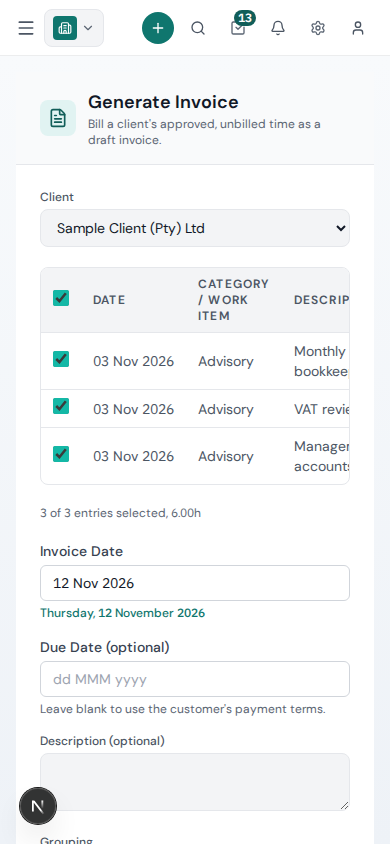
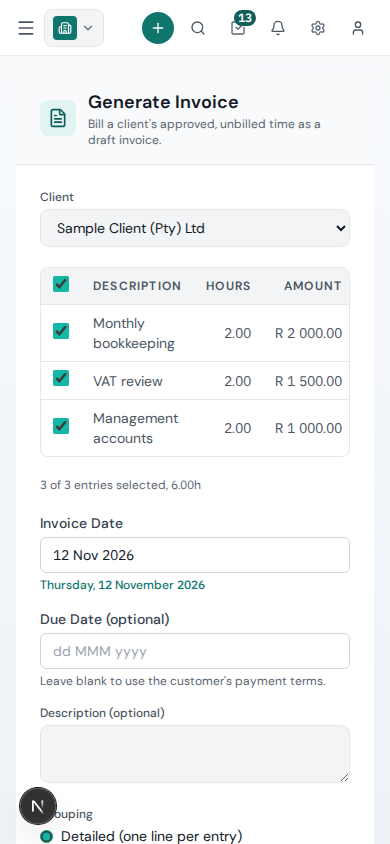
fix(practice): Generate Invoice review fixes
Ignore stale WIP responses after a client switch, keep Hours and Amount
visible on phones, scope the practice_clients joins by company_id, and add
screenshots of the totals and action button.

Changed region(s): [[0.0923, 0.3081, 0.8308, 0.8934], [0.7077, 0.3081, 0.8923, 0.5853], [0.0923, 0.955, 0.6462, 1.0]]

diff --git a/src/components/accounting/practice/WipEntryPickTable.tsx b/src/components/accounting/practice/WipEntryPickTable.tsx
@@ -36,11 +36,11 @@ export function WipEntryPickTable({ entries, selected, onToggle, onToggleAll }: 
         <thead className="bg-[var(--ff-bg-tertiary)]">
           <tr>
             <th className={`${TH} w-10`}><SelectAllBox state={state} onChange={onToggleAll} /></th>
-            <th className={TH}>Date</th>
-            <th className={TH}>Category / Work item</th>
+            <th className={`${TH} hidden sm:table-cell`}>Date</th>
+            <th className={`${TH} hidden sm:table-cell`}>Category / Work item</th>
             <th className={TH}>Description</th>
             <th className={`${TH} text-right`}>Hours</th>
-            <th className={`${TH} text-right`}>Rate</th>
+            <th className={`${TH} hidden text-right sm:table-cell`}>Rate</th>
             <th className={`${TH} text-right`}>Amount</th>
           </tr>
         </thead>
@@ -51,11 +51,11 @@ export function WipEntryPickTable({ entries, selected, onToggle, onToggleAll }: 
                 <input type="checkbox" aria-label={`Select entry ${e.taskDescription}`} checked={selected.has(e.id)}
                   onChange={() => onToggle(e.id)} className="h-4 w-4 rounded accent-teal-500 cursor-pointer" />
               </td>
-              <td className={`${TD} whitespace-nowrap`}>{e.entryDate ? formatDisplayDate(e.entryDate) : ''}</td>
-              <td className={TD}>{[e.jobCategoryName, e.workItemName].filter(Boolean).join(' / ')}</td>
+              <td className={`${TD} hidden whitespace-nowrap sm:table-cell`}>{e.entryDate ? formatDisplayDate(e.entryDate) : ''}</td>
+              <td className={`${TD} hidden sm:table-cell`}>{[e.jobCategoryName, e.workItemName].filter(Boolean).join(' / ')}</td>
               <td className={`${TD} text-[var(--ff-text-primary)]`}>{e.taskDescription}</td>
               <td className={`${TD} text-right tabular-nums`}>{Number(e.hours).toFixed(2)}</td>
-              <td className={`${TD} text-right tabular-nums`}>{e.appliedRate != null ? formatMoney(e.appliedRate) : ''}</td>
+              <td className={`${TD} hidden text-right tabular-nums sm:table-cell`}>{e.appliedRate != null ? formatMoney(e.appliedRate) : ''}</td>
               <td className={`${TD} text-right tabular-nums text-[var(--ff-text-primary)]`}>{formatMoney(e.lineTotal ?? 0)}</td>
             </tr>
           ))}

diff --git a/src/components/accounting/practice/GenerateInvoiceForm.tsx b/src/components/accounting/practice/GenerateInvoiceForm.tsx
@@ -5,7 +5,7 @@
  * entries billed). The preview prices with the shared invoiceTotals, the
  * figure the server stores.
  */
-import { useCallback, useEffect, useState } from 'react';
+import { useCallback, useEffect, useRef, useState } from 'react';
 import Link from 'next/link';
 import { AlertCircle, CheckCircle2, Loader2 } from 'lucide-react';
 import { apiFetch, assertOk, apiErrorMessage } from '@/lib/apiFetch';
@@ -79,19 +79,23 @@ export function GenerateInvoiceForm() {
     })();
   }, []);
 
+  const wipRequest = useRef(0);
   const loadWip = useCallback(async (id: string) => {
+    const mine = ++wipRequest.current;
     setWip(null); setSelected(new Set()); setWipError(null);
-    if (!id) return;
+    if (!id) { setWipLoading(false); return; }
     setWipLoading(true);
     try {
       const res = await apiFetch(`/api/accounting/practice/wip?practiceClientId=${encodeURIComponent(id)}`);
       await assertOk(res, 'Could not load the unbilled time - try again');
       const json = (await res.json()) as { data?: WipClientRow[] };
+      if (mine !== wipRequest.current) return; // a newer client pick superseded this response
       const row = json.data?.[0] ?? null;
       setWip(row);
       setSelected(new Set(row?.entries.map((e) => e.id) ?? []));
-    } catch (err) { setWipError(apiErrorMessage(err, 'Could not load the unbilled time - try again')); }
-    finally { setWipLoading(false); }
+    } catch (err) {
+      if (mine === wipRequest.current) setWipError(apiErrorMessage(err, 'Could not load the unbilled time - try again'));
+    } finally { if (mine === wipRequest.current) setWipLoading(false); }
   }, []);
 
   function pickClient(id: string) {

diff --git a/tests/unit/components/GenerateInvoiceForm.test.tsx b/tests/unit/components/GenerateInvoiceForm.test.tsx
@@ -158,3 +158,20 @@ it('posts the selection, due date and notes, then links to the draft invoice', a
     notes: 'October advisory', taxRate: 15, groupBy: 'detailed',
   });
 });
+
+it('ignores a slow response for a client that is no longer picked', async () => {
+  let releaseA: (r: Response) => void = () => undefined;
+  const slowA = new Promise<Response>((res) => { releaseA = res; });
+  const base = vi.mocked(apiFetch).getMockImplementation()!;
+  vi.mocked(apiFetch).mockImplementation(async (url, init) => {
+    if (String(url).includes('practiceClientId=pc-1')) return slowA;
+    return base(url, init);
+  });
+  render(<GenerateInvoiceForm />);
+  await pick('pc-1');
+  fireEvent.change(screen.getByLabelText('Client'), { target: { value: 'pc-3' } });
+  await waitFor(() => expect(screen.getByLabelText('Client')).toHaveProperty('value', 'pc-3'));
+  releaseA(Response.json({ success: true, data: [{ ...WIP, entries: [entry('te-x', 'Belongs to client A', 700)] }] }));
+  await new Promise((r) => setTimeout(r, 20));
+  expect(screen.queryByText('Belongs to client A')).toBeNull();
+});

diff --git a/src/modules/accounting/services/practice/practiceWipService.ts b/src/modules/accounting/services/practice/practiceWipService.ts
@@ -76,7 +76,7 @@ export async function getWipByClient(
       SUM(COALESCE(te.line_total, 0))::NUMERIC AS total_value,
       MIN(te.approved_at::DATE) AS oldest_approved_date
     FROM time_entries te
-    JOIN practice_clients pc ON pc.id = te.practice_client_id
+    JOIN practice_clients pc ON pc.id = te.practice_client_id AND pc.company_id = te.company_id
     WHERE te.company_id = ${companyId}::UUID
       AND te.status = 'approved'
       AND te.billed_at IS NULL
@@ -100,7 +100,7 @@ export async function getWipByClient(
       pjc.name AS job_category_name,
       pwi.name AS work_item_name
     FROM time_entries te
-    JOIN practice_clients pc ON pc.id = te.practice_client_id
+    JOIN practice_clients pc ON pc.id = te.practice_client_id AND pc.company_id = te.company_id
     LEFT JOIN practice_job_categories pjc ON pjc.id = te.job_category_id
     LEFT JOIN practice_work_items pwi ON pwi.id = te.work_item_id
     WHERE te.company_id = ${companyId}::UUID
